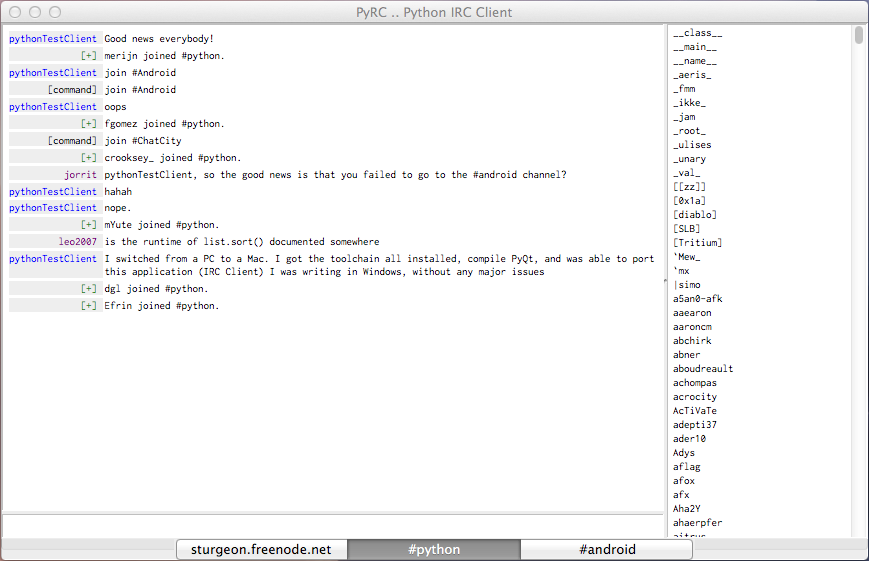
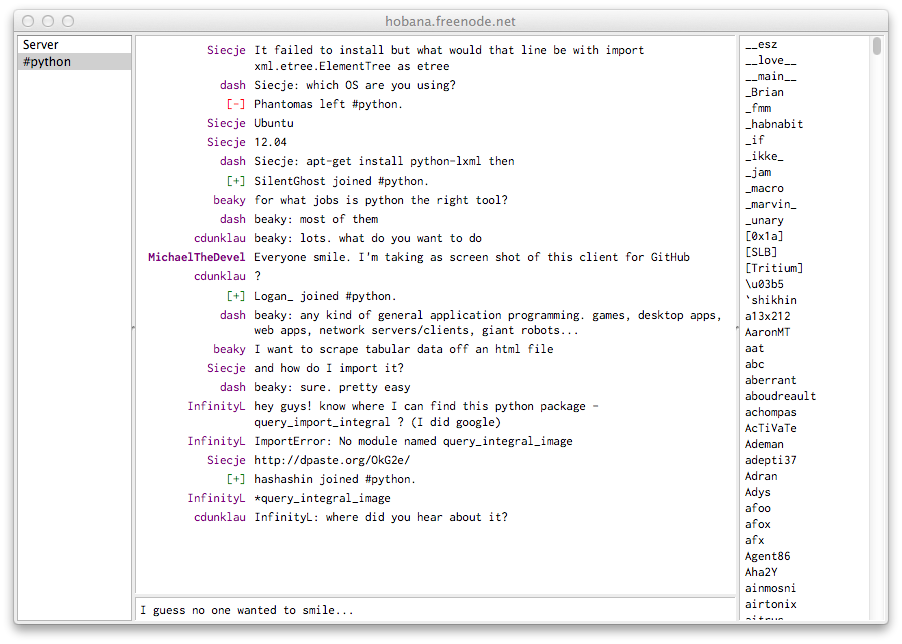
None

Changed region(s): [[0.0, 0.0, 1.0, 1.0]]

diff --git a/README.md b/README.md
@@ -5,9 +5,14 @@ This is a pet project, primarily so that I can teach myself Python.
 
 This project was created shortly after I installed mIRC and realized that it was a trial version which would inevitably expire.  I decided that in my quest to learn Python I would write a functional replacement for mIRC before the trial.  Every line of code here is the embodiment of that effort.  I hope you enjoy.
 
+This project was created with Komodo Edit 8, Qt Designer, and requires PyQt 4.8
+
+#####Massive Update (2013-04-11)
+
+The user interface has had a massive overhaul, I still have tonnes of work to do but the UI is much cleaner now.  The new layout was inspired by XChat and Textual.
+
 ![](https://raw.github.com/MichaelTheDevel/PyRC/master/screenshot/pyrc-screenshot.png)
 
-This project was created in and is best viewed with Monkey Studio.  Get a copy from <http://monkeystudio.org/>
 
 PyRC by Michael Allen C. Isaac is licensed under a Creative Commons Attribution-NonCommercial-ShareAlike 3.0 Unported License.
 <http://creativecommons.org/licenses/by-nc-sa/3.0/>
